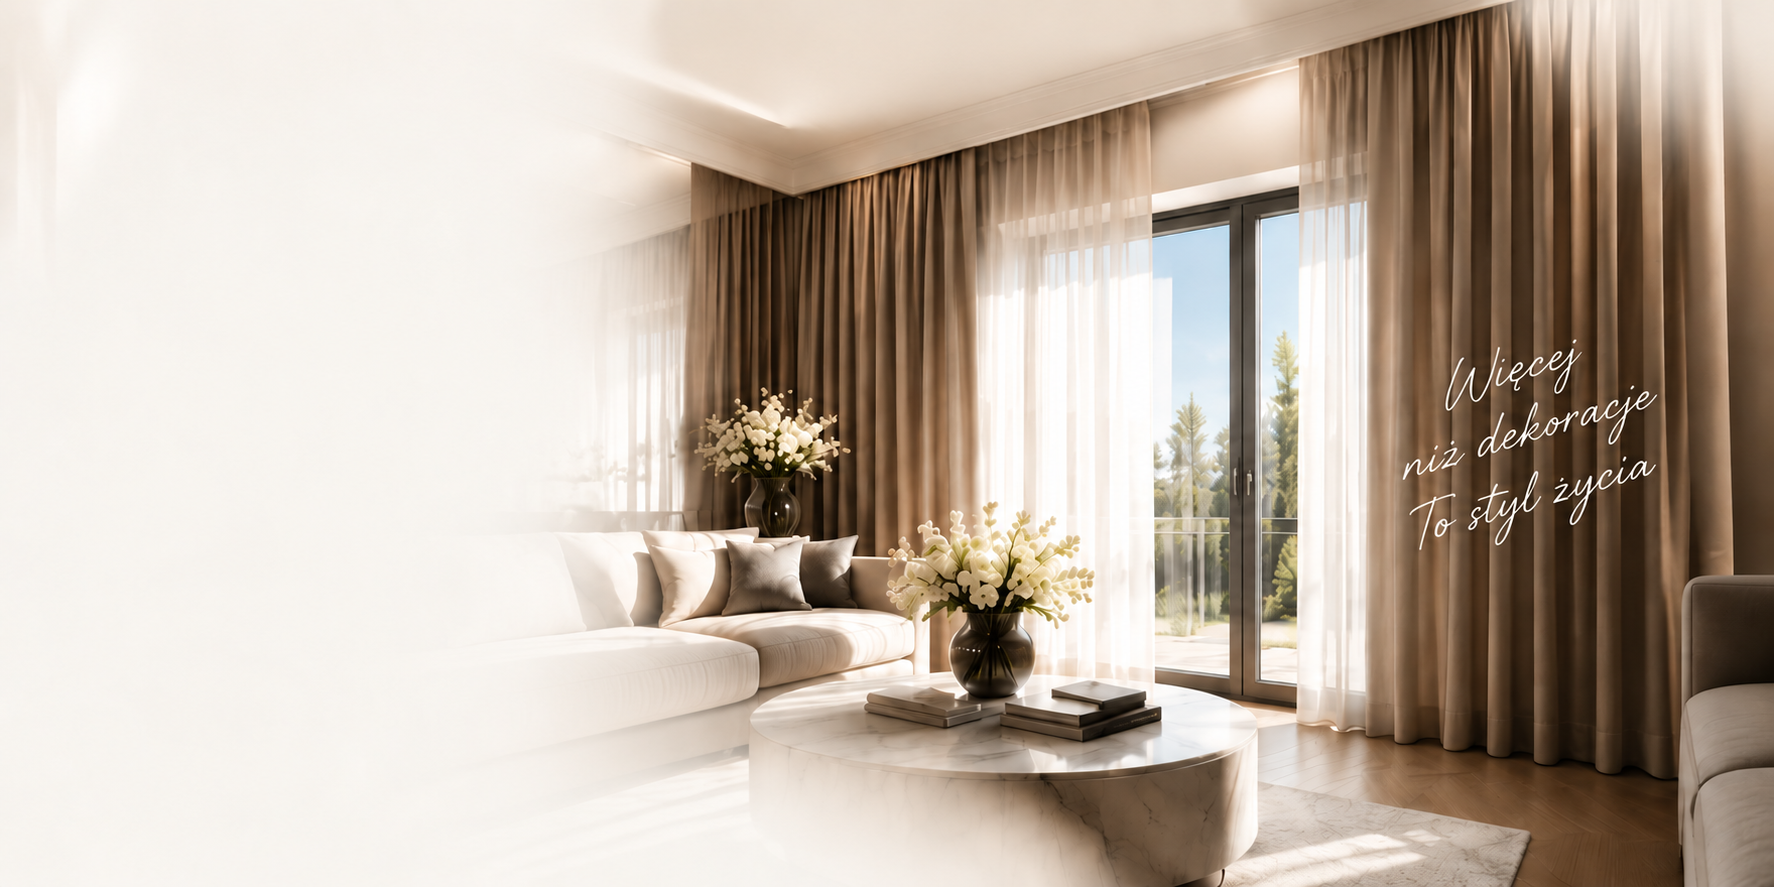
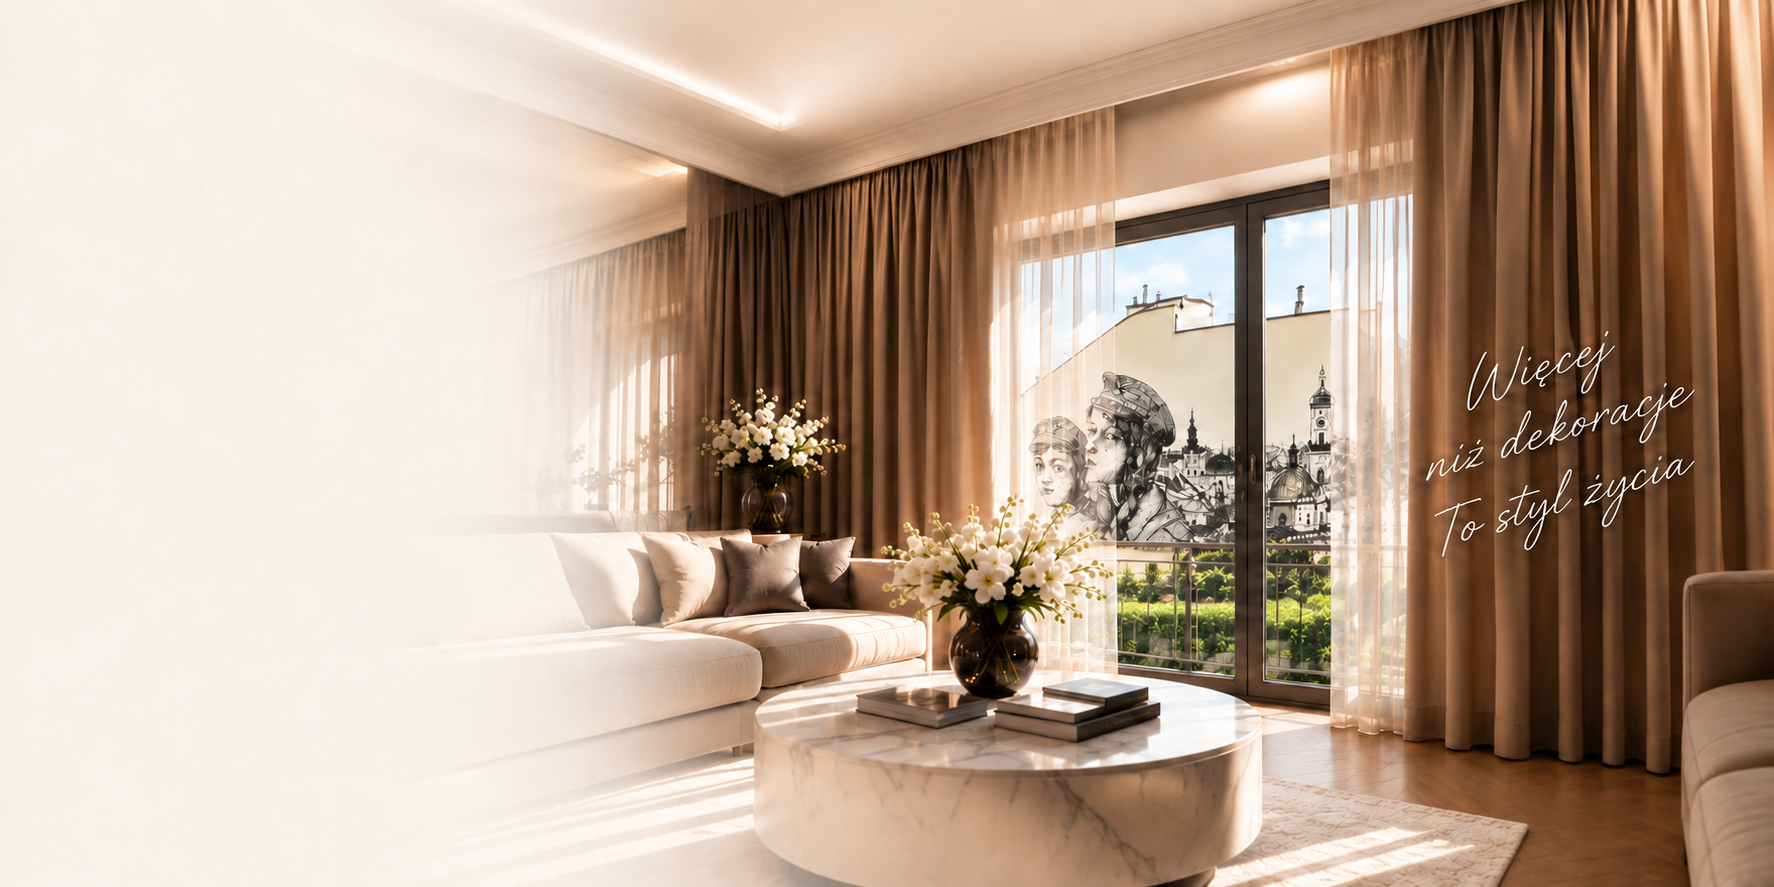
Nowe hero, poprawka czytelnosci tekstu na mniejszych laptopach

diff --git a/decor-prestige/src/components/sections/Hero/Hero.module.css b/decor-prestige/src/components/sections/Hero/Hero.module.css
@@ -27,6 +27,22 @@
   z-index: 0;
 }
 
+/* ---- Kremowa poświata pod tekstem (mniejsze laptopy) ---- */
+.hero::before {
+  content: '';
+  position: absolute;
+  inset: 0;
+  z-index: 0;
+  pointer-events: none;
+  background: linear-gradient(
+    to right,
+    rgba(253, 250, 246, 0.92) 0%,
+    rgba(253, 250, 246, 0.84) 32%,
+    rgba(253, 250, 246, 0.50) 46%,
+    rgba(253, 250, 246, 0) 62%
+  );
+}
+
 /* ---- Fade-in ---- */
 .fadeIn {
   opacity: 0;
@@ -51,7 +67,7 @@
 .textCol {
   display: flex;
   flex-direction: column;
-  margin-left: clamp(2rem, 10vw, 10rem);
+  margin-left: clamp(1.5rem, 8vw, 10rem);
   padding-top: clamp(7rem, 11vw, 10rem);
   padding-right: var(--space-6);
   padding-bottom: var(--space-12);
@@ -72,7 +88,7 @@
 
 .heading {
   font-family: var(--font-heading);
-  font-size: clamp(3rem, 5.5vw, 5rem);
+  font-size: clamp(2.8rem, min(5.5vw, 8.5vh), 5rem);
   font-weight: 300;
   line-height: 1.06;
   letter-spacing: -0.02em;
@@ -159,6 +175,14 @@
   font-size: var(--font-size-sm);
   color: #7A7370;
   letter-spacing: 0.04em;
+}
+
+@media (min-width: 1700px) and (min-height: 950px) {
+  .hero::before { opacity: 0.5; }
+}
+
+@media (max-width: 600px) {
+  .hero::before { display: none; }
 }
 
 /* ============================================================
